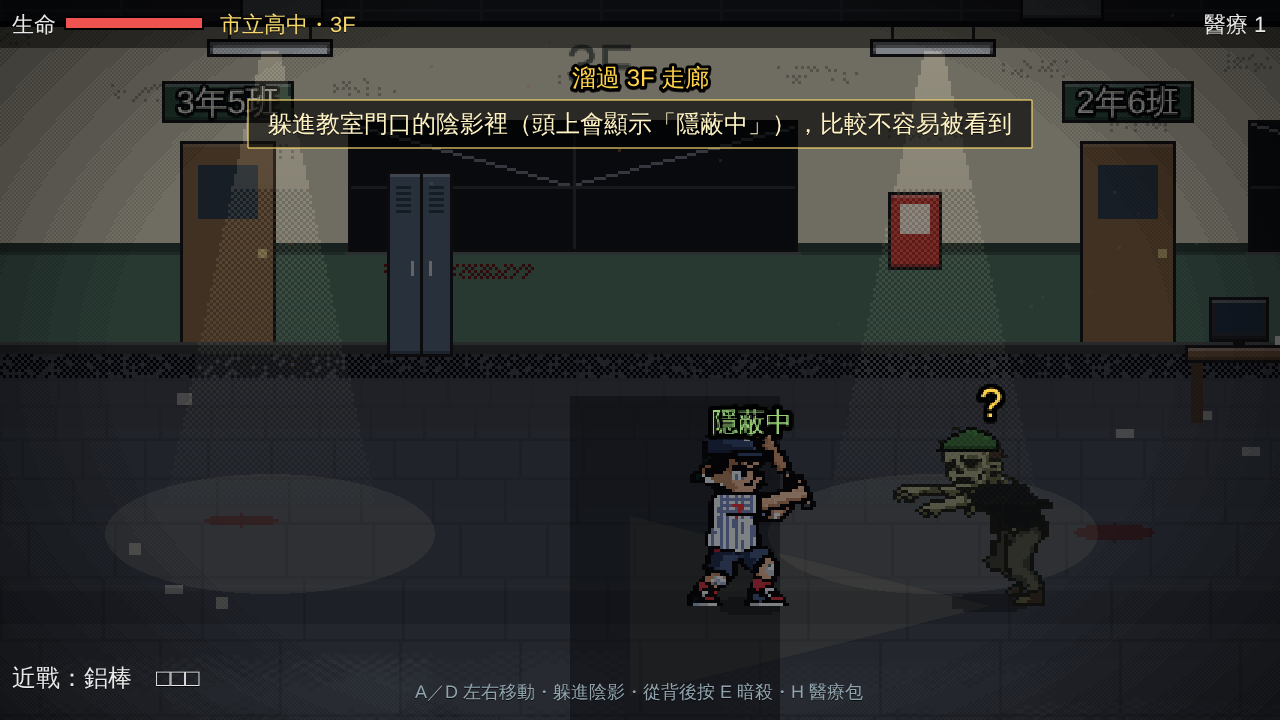
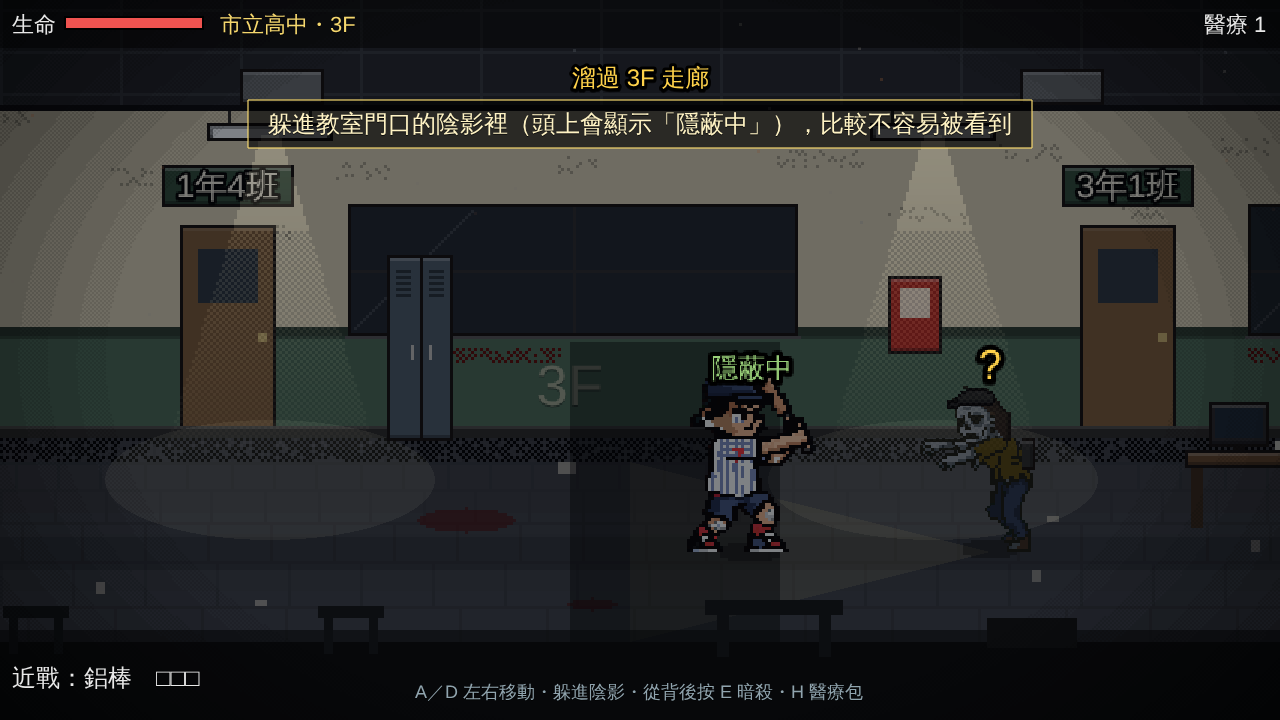
單軸場景壓縮縱深：後牆貼近走道、前方加近景剪影
Claude-Session: https://claude.ai/code/session_01QYS9QHisMAqki286SafPiz

diff --git a/src/scenes/ExploreFieldScene.ts b/src/scenes/ExploreFieldScene.ts
@@ -59,7 +59,12 @@ const FIELD_W = 960;
 /** 單軸模式鏡頭拉近的倍率：上下不留大片空白，人和場景放大 */
 const SINGLE_ZOOM = 1.5;
 /** 單軸模式畫面中心的 y（世界座標）：上緣切在天花板下、下緣留一點地板 */
-const SINGLE_VIEW_CY = 208;
+const SINGLE_VIEW_CY = 226;
+/**
+ * 單軸模式的縱深壓縮：整片背景（牆、立面、天空）往下推，後牆貼近走道，
+ * 前面再加一排近景剪影——像窄走廊、窄巷，和 2.5D 的寬闊場地分得出來。
+ */
+const SINGLE_DEPTH_SHIFT = 46;
 /** HUD、提示、畫面邊緣特效：畫在不拉近的鏡頭上（scrollFactor 0 且 depth ≥ 這個值） */
 const UI_DEPTH = 85;
 /** 潛入：霧屍基本視野 */
@@ -117,6 +122,8 @@ export class ExploreFieldScene extends Phaser.Scene {
   private exitX = FIELD_W - 34;
   /** 單軸：所有人都在同一條線上 */
   private single = false;
+  /** 牆腳（背景地平線）的 y：單軸模式往下推 SINGLE_DEPTH_SHIFT */
+  private groundY = GROUND_Y;
   private walkDot?: Phaser.GameObjects.Rectangle;
   private scenery!: SceneryResult;
   private props!: PropSystem;
@@ -194,6 +201,7 @@ export class ExploreFieldScene extends Phaser.Scene {
     this.worldW = this.stage?.worldW ?? (this.spec.walk ? WALK.worldW : FIELD_W);
     this.exitX = this.worldW - 34;
     this.single = this.spec.axis === 'single' || !!this.spec.walk;
+    this.groundY = GROUND_Y + (this.single ? SINGLE_DEPTH_SHIFT : 0);
     setSingleLane(this.single);
     // 單軸只在這個場景有效：結束就還原，夜晚防守照舊是 2.5D
     this.events.once(Phaser.Scenes.Events.SHUTDOWN, () => setSingleLane(false));
@@ -287,12 +295,17 @@ export class ExploreFieldScene extends Phaser.Scene {
   private drawBackdrop(): void {
     const keep: [number, number][] = [[0, 110]];
     if (this.spec.goal === 'reach') keep.push([this.exitX - 50, this.worldW]);
+    const before = this.children.list.length;
     this.scenery = fieldScenery(this, this.exp.zone.id, this.eventId, this.worldW, keep, this.spec.walk ? WALK.extras : 4);
-    if (this.single) this.clearLane();
+    if (this.single) {
+      this.compressDepth(before);
+      this.clearLane();
+      this.drawForeground();
+    }
     if (this.spec.walk) this.drawWalkSign();
     // 出口（潛入目標）：一扇亮著綠光的門
     else if (this.spec.goal === 'reach') {
-      const y = GROUND_Y + 1;
+      const y = this.groundY + 1;
       // 頂樓的樓梯間小屋本身就有門
       if (this.stage?.id !== 'roof') this.add.image(this.exitX, y, propKey('door'), 1).setOrigin(0.5, 1).setDepth(5);
       const glow = this.add.rectangle(this.exitX, y - 24, 30, 52, 0x9ad17a, 0.14).setDepth(6);
@@ -302,8 +315,67 @@ export class ExploreFieldScene extends Phaser.Scene {
     // 序章：牆上漆著樓層的大字
     if (this.stage && this.stage.id !== 'roof') {
       // 漆在綠色牆裙上（鏡頭拉近後上方會被 HUD 擋住）
-      pixelText(this, 190, GROUND_Y - 17, this.stage.floor, 14, '#d8d0b8').setOrigin(0.5).setDepth(-50).setAlpha(0.6);
+      pixelText(this, 30, this.groundY - 17, this.stage.floor, 14, '#d8d0b8').setOrigin(0.5).setDepth(-50).setAlpha(0.6);
     }
+  }
+
+  /** 單軸：背景整片往下推，擺件跟著移（貼牆的跟牆走、地上的排到走道正後方） */
+  private compressDepth(from: number): void {
+    const dy = SINGLE_DEPTH_SHIFT;
+    const list = this.children.list;
+    for (let i = from; i < list.length; i++) {
+      const o = list[i] as Phaser.GameObjects.GameObject & { y?: number };
+      if (typeof o.y === 'number') o.y += dy;
+    }
+    for (const pr of this.scenery.props) {
+      if (pr.wall) pr.y += dy;
+      // 地上的擺件：排在牆腳和走道之間那一窄條
+      else pr.y = Math.min(SINGLE_LANE_Y - 8, Math.max(this.groundY + 14, pr.y + dy));
+    }
+  }
+
+  /**
+   * 單軸的近景：走道前方一排暗色剪影（課桌椅、欄杆、雜物），比走道捲得快一點，
+   * 畫在角色腳下方，不擋身體。
+   */
+  private drawForeground(): void {
+    const key = `fg-${this.eventId ?? this.exp.zone.id}-${Math.floor(Math.random() * 1e9)}`;
+    const sf = 1.18;
+    const w = Math.ceil(this.worldW * sf + GAME_WIDTH);
+    const top = SINGLE_LANE_Y + 22;
+    const h = GAME_HEIGHT - top;
+    const g = this.make.graphics({}, false);
+    g.fillStyle(0x07080a, 1).fillRect(0, 14, w, h);
+    g.fillStyle(0x07080a, 0.6).fillRect(0, 10, w, 4);
+    const indoor = this.scenery.setting === 'int';
+    for (let x = this.rng.int(0, 60); x < w; x += this.rng.int(70, 150)) {
+      const kind = this.rng.int(0, 2);
+      if (indoor) {
+        if (kind === 0) {
+          // 課桌（桌面＋桌腳）
+          g.fillStyle(0x0c0e11, 1).fillRect(x, 0, 46, 5).fillRect(x + 4, 5, 4, 14).fillRect(x + 38, 5, 4, 14);
+        } else if (kind === 1) {
+          // 椅背
+          g.fillStyle(0x0c0e11, 1).fillRect(x, 2, 22, 4).fillRect(x + 2, 6, 3, 12).fillRect(x + 17, 6, 3, 12);
+        } else {
+          // 倒下的紙箱、書包
+          g.fillStyle(0x0b0c0e, 1).fillRect(x, 6, 30, 10);
+        }
+      } else if (kind === 0) {
+        // 欄杆柱
+        g.fillStyle(0x0c0e11, 1).fillRect(x, -6, 5, 22).fillRect(x - 30, -4, 70, 3);
+      } else if (kind === 1) {
+        // 垃圾袋
+        g.fillStyle(0x0b0c0e, 1).fillEllipse(x + 14, 12, 34, 20);
+      } else {
+        // 路緣、碎石
+        g.fillStyle(0x0c0e11, 1).fillRect(x, 8, 52, 8);
+      }
+    }
+    g.generateTexture(key, w, h + 6);
+    g.destroy();
+    this.add.image(0, top - 6, key).setOrigin(0).setScrollFactor(sf, 1).setDepth(depthForY(GAME_HEIGHT) + 5);
+    this.events.once(Phaser.Scenes.Events.SHUTDOWN, () => this.textures.exists(key) && this.textures.remove(key));
   }
 
   /**
@@ -313,7 +385,7 @@ export class ExploreFieldScene extends Phaser.Scene {
   private clearLane(): void {
     for (const pr of this.scenery.props) {
       if (pr.wall) continue;
-      if (Math.abs(pr.y - SINGLE_LANE_Y) < 26) pr.y = LANE_TOP + 4 + Math.round(this.rng.next() * 8);
+      if (Math.abs(pr.y - SINGLE_LANE_Y) < 8) pr.y = SINGLE_LANE_Y - 8;
     }
     const g = this.add.graphics().setDepth(2);
     g.fillStyle(0x000000, 0.16).fillRect(0, SINGLE_LANE_Y - 6, this.worldW, 12);

diff --git a/docs/PROLOGUE.md b/docs/PROLOGUE.md
@@ -7,7 +7,7 @@
 
 ## 五層樓
 
-全程單軸（只能左右走）、只能近戰（阿凱只有球棒）。單軸模式的鏡頭會拉近 1.5 倍（上下不留大片空白，人和場景放大），HUD 畫在另一個不縮放的鏡頭上；沿街前進等所有單軸關卡都一樣。每層都從滿血開始，倒下就重來那一層，序章不會 Game Over。
+全程單軸（只能左右走）、只能近戰（阿凱只有球棒）。單軸模式的鏡頭會拉近 1.5 倍（上下不留大片空白，人和場景放大），HUD 畫在另一個不縮放的鏡頭上；縱深也壓縮：背景整片往下推、後牆貼近走道，前方多一排捲得比較快的近景剪影（室內是課桌椅，室外是欄杆與雜物），和 2.5D 的寬闊場地分得出來。沿街前進等所有單軸關卡都一樣。每層都從滿血開始，倒下就重來那一層，序章不會 Game Over。
 
 | 樓層 | 玩法 | 教什麼 | 過關 |
 |---|---|---|---|
